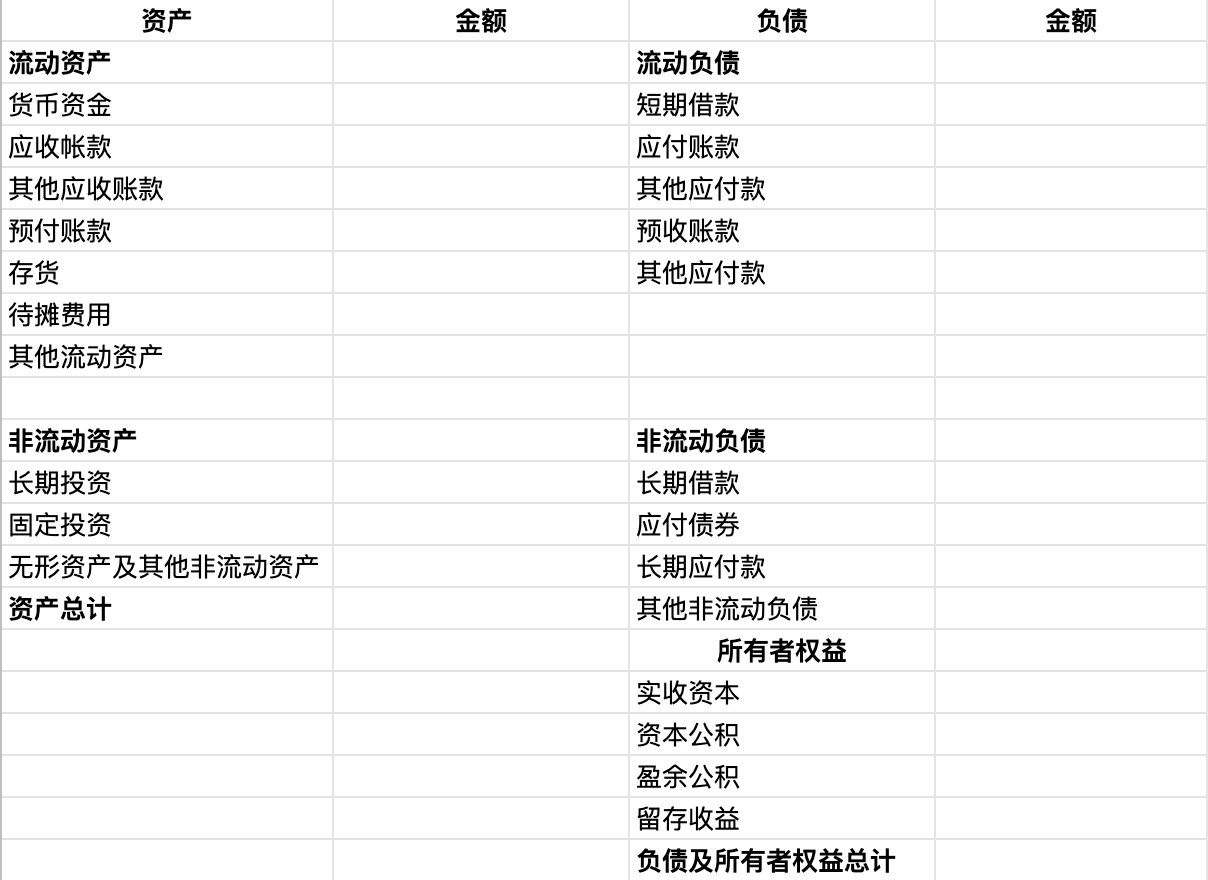
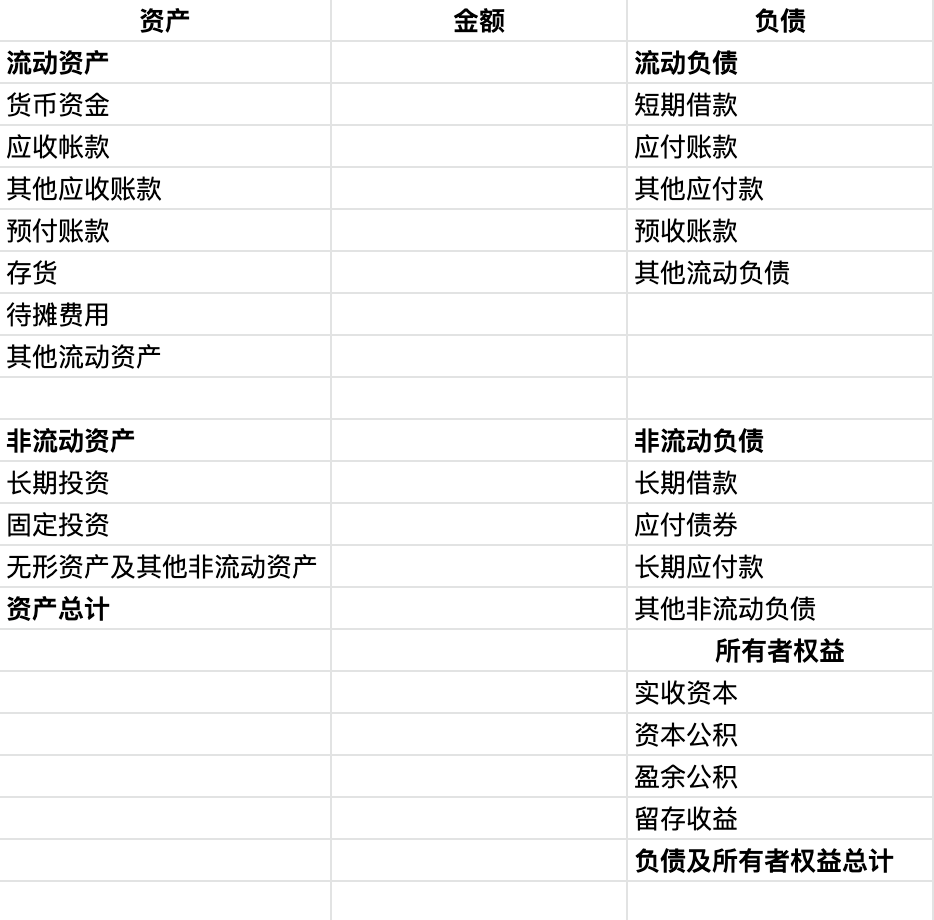
feat: add new article

Changed region(s): [[0.0, 0.0, 0.9936, 1.0], [0.2484, 0.4602, 0.2794, 0.4909]]

diff --git a/blog/source/content/blog/2020-blance-Sheet/index.md b/blog/source/content/blog/2020-blance-Sheet/index.md
@@ -14,7 +14,9 @@ categories: "金融"
 
 一张完整的资产负债表如下：
 
-![OKR Demo 3](./img/blance_sheet.png)
+![OKR Demo 3](./img/blance_sheet_new.png)
+
+>备注：具体的资产负债表可能会包含更多的项目
 
 可以看到资产负债表主要分左右两部分，即左边的资产和右边的负债、所有者（股东）权益。
 
@@ -85,8 +87,44 @@ categories: "金融"
 
 ## 负债
 
+>负债（Liability）：由于过去的交易或事项所引起的公司、企业的现有债务，这种债务需要企业在将来以转移资产或提供劳务加以清偿，从而引起未来经济利益的流出。
 
+### 流动负债
 
+**一年内或者超过一年的一个经营周期内**需要偿还的债务合计，包含以下内容：
 
+* 短期借款（Short-term Borrowing）：企业用来维持正常的生产经营所需的资金或为抵偿某项债务而向银行或其他金融机构等外单位借入的，**还款期限在一年以下或者一年的一个经营周期内**的各种借款。
+* 应付账款（Accounts Payable）：企业因购买材料、物资和接受劳务供应等而应该付给供货单位的账款。
+* 其他应付账款（Other Payables）：企业除应付票据、应付账款、应付工资、应付利润以外的应付、暂收其他单位或个人的款项。
+* 预收账款（Deposit Received）：买卖双方协议商定，由购货方预先支付一部分货款给供应方而发生的一种负债。
+* 其他流动负债：为了简化资产负债表，将一些项目合并在一起，统称为“其他”。包括应付工资，应交税金等。
 
+### 非流动负债
 
+偿还期在**一年或超过一年的一个营业周期以上**的债务，包含以下内容：
+
+* 长期借款（Long-term Loans Payable）：：企业从银行或其他金融机构借入的期限在一年以上（不含一年）的借款。
+* 应付债券（Bond Payable）：企业为筹集资金而对外发行的期限在一年以上的长期借款性质的书面证明，约定在一定期限内还本付息的一种书面承诺。
+* 长期应付款（Long-term Payable）：企业除了长期借款和应付债券以外的**长期负债**。包括应付引进设备款、应付融资租入固定资产的租赁费等。
+* 其他非流动负债：除长期借款、应付债券等项目以外的其他非流动负债。
+
+## 股东权益
+
+>股东权益（Shareholder‘s Equity）：公司总资产中扣除债务所余下的那部分，也称净资产。股东权益反应了公司的自有资本。
+
+股东权益包含以下几个部分：
+
+* 股本（Capital Stock）：股东在公司中所占的权益，多用于指股票。
+* 资本公积（Addition Paid-in Capital）：企业收到的投资者的**超出其在企业注册资本所占份额**，以及直接记入所有者权益的利得和损失等。资本公积包括资本溢价（股本溢价）和直接记入所有者权益的利得和损失等。
+* 盈余公积（Surplus Zeserve）：企业按照规定从净利润中提取的各种积累资金。中国的公司法规定，一个公司有了盈利之后，必须留存至少**10%**作为盈余公积。该项目为中国特有，**其他国家没有这个规定**。
+* 未分配利润（Retained Earnings）：企业未作分配的利润。它在以后年度可继续进行分配，**在未进行分配之前，属于所有者权益的组成部分**。
+
+在资产负债表中实收资本/股本。区别在于实收资本对应**有限责任公司**而股本对应**股份有限公司**。
+
+盈余公积是法律不允许分配的利润，而分配利润是企业不想分配的利润。
+
+## 总结
+
+总的来说，资产负债表左边是说钱被用来做什么了，右边是说企业的钱是从哪儿来的。很显然进来的钱和用掉的钱在金额上必须相等，这就意味着资产负债表的左边的资产与右边的负债和股东权益之和相等。即**资产 = 负债 + 股东权益**，这就是所谓的“会计恒等式”。也就是说**股东权益 = 资产 - 负债**。
+
+资产负债表是一个**时间点**的概念，它提供了截止日期那天，公司的财务状况。

diff --git a/blog/source/content/blog/2020_pointer_compression_in_V8/index.md b/blog/source/content/blog/2020_pointer_compression_in_V8/index.md
@@ -20,4 +20,16 @@ categories: "翻译,JavaScript"
 
 指针压缩是改进V8内存占用的多项工作之一。想法很简单：我们可以存储一些“基”地址的32位偏移量而不是存储64位指针。如此简单的想法，在V8中这种压缩可以给我们带来多少收益？
 
-V8的堆包含大量的项目（items），例如浮点值（floating point values），字符串字符（string characters），解析器字节码（interpreter bytecode）和标记值（tagged values）。在检查
+V8的堆包含大量的项目（items），例如浮点值（floating point values），字符串字符（string characters），解析器字节码（interpreter bytecode）和标记值（tagged values）。在检查堆时，我们发现在现实使用网站中，这些标记值占了V8堆的70%！
+
+下面我们具体看看这些标记值是什么。
+
+## V8中的标记值
+
+
+
+```
+                        |----- 32 bits -----|
+Pointer:                |_____address_____w1|
+Smi:                    |___int31_value____0|
+```
